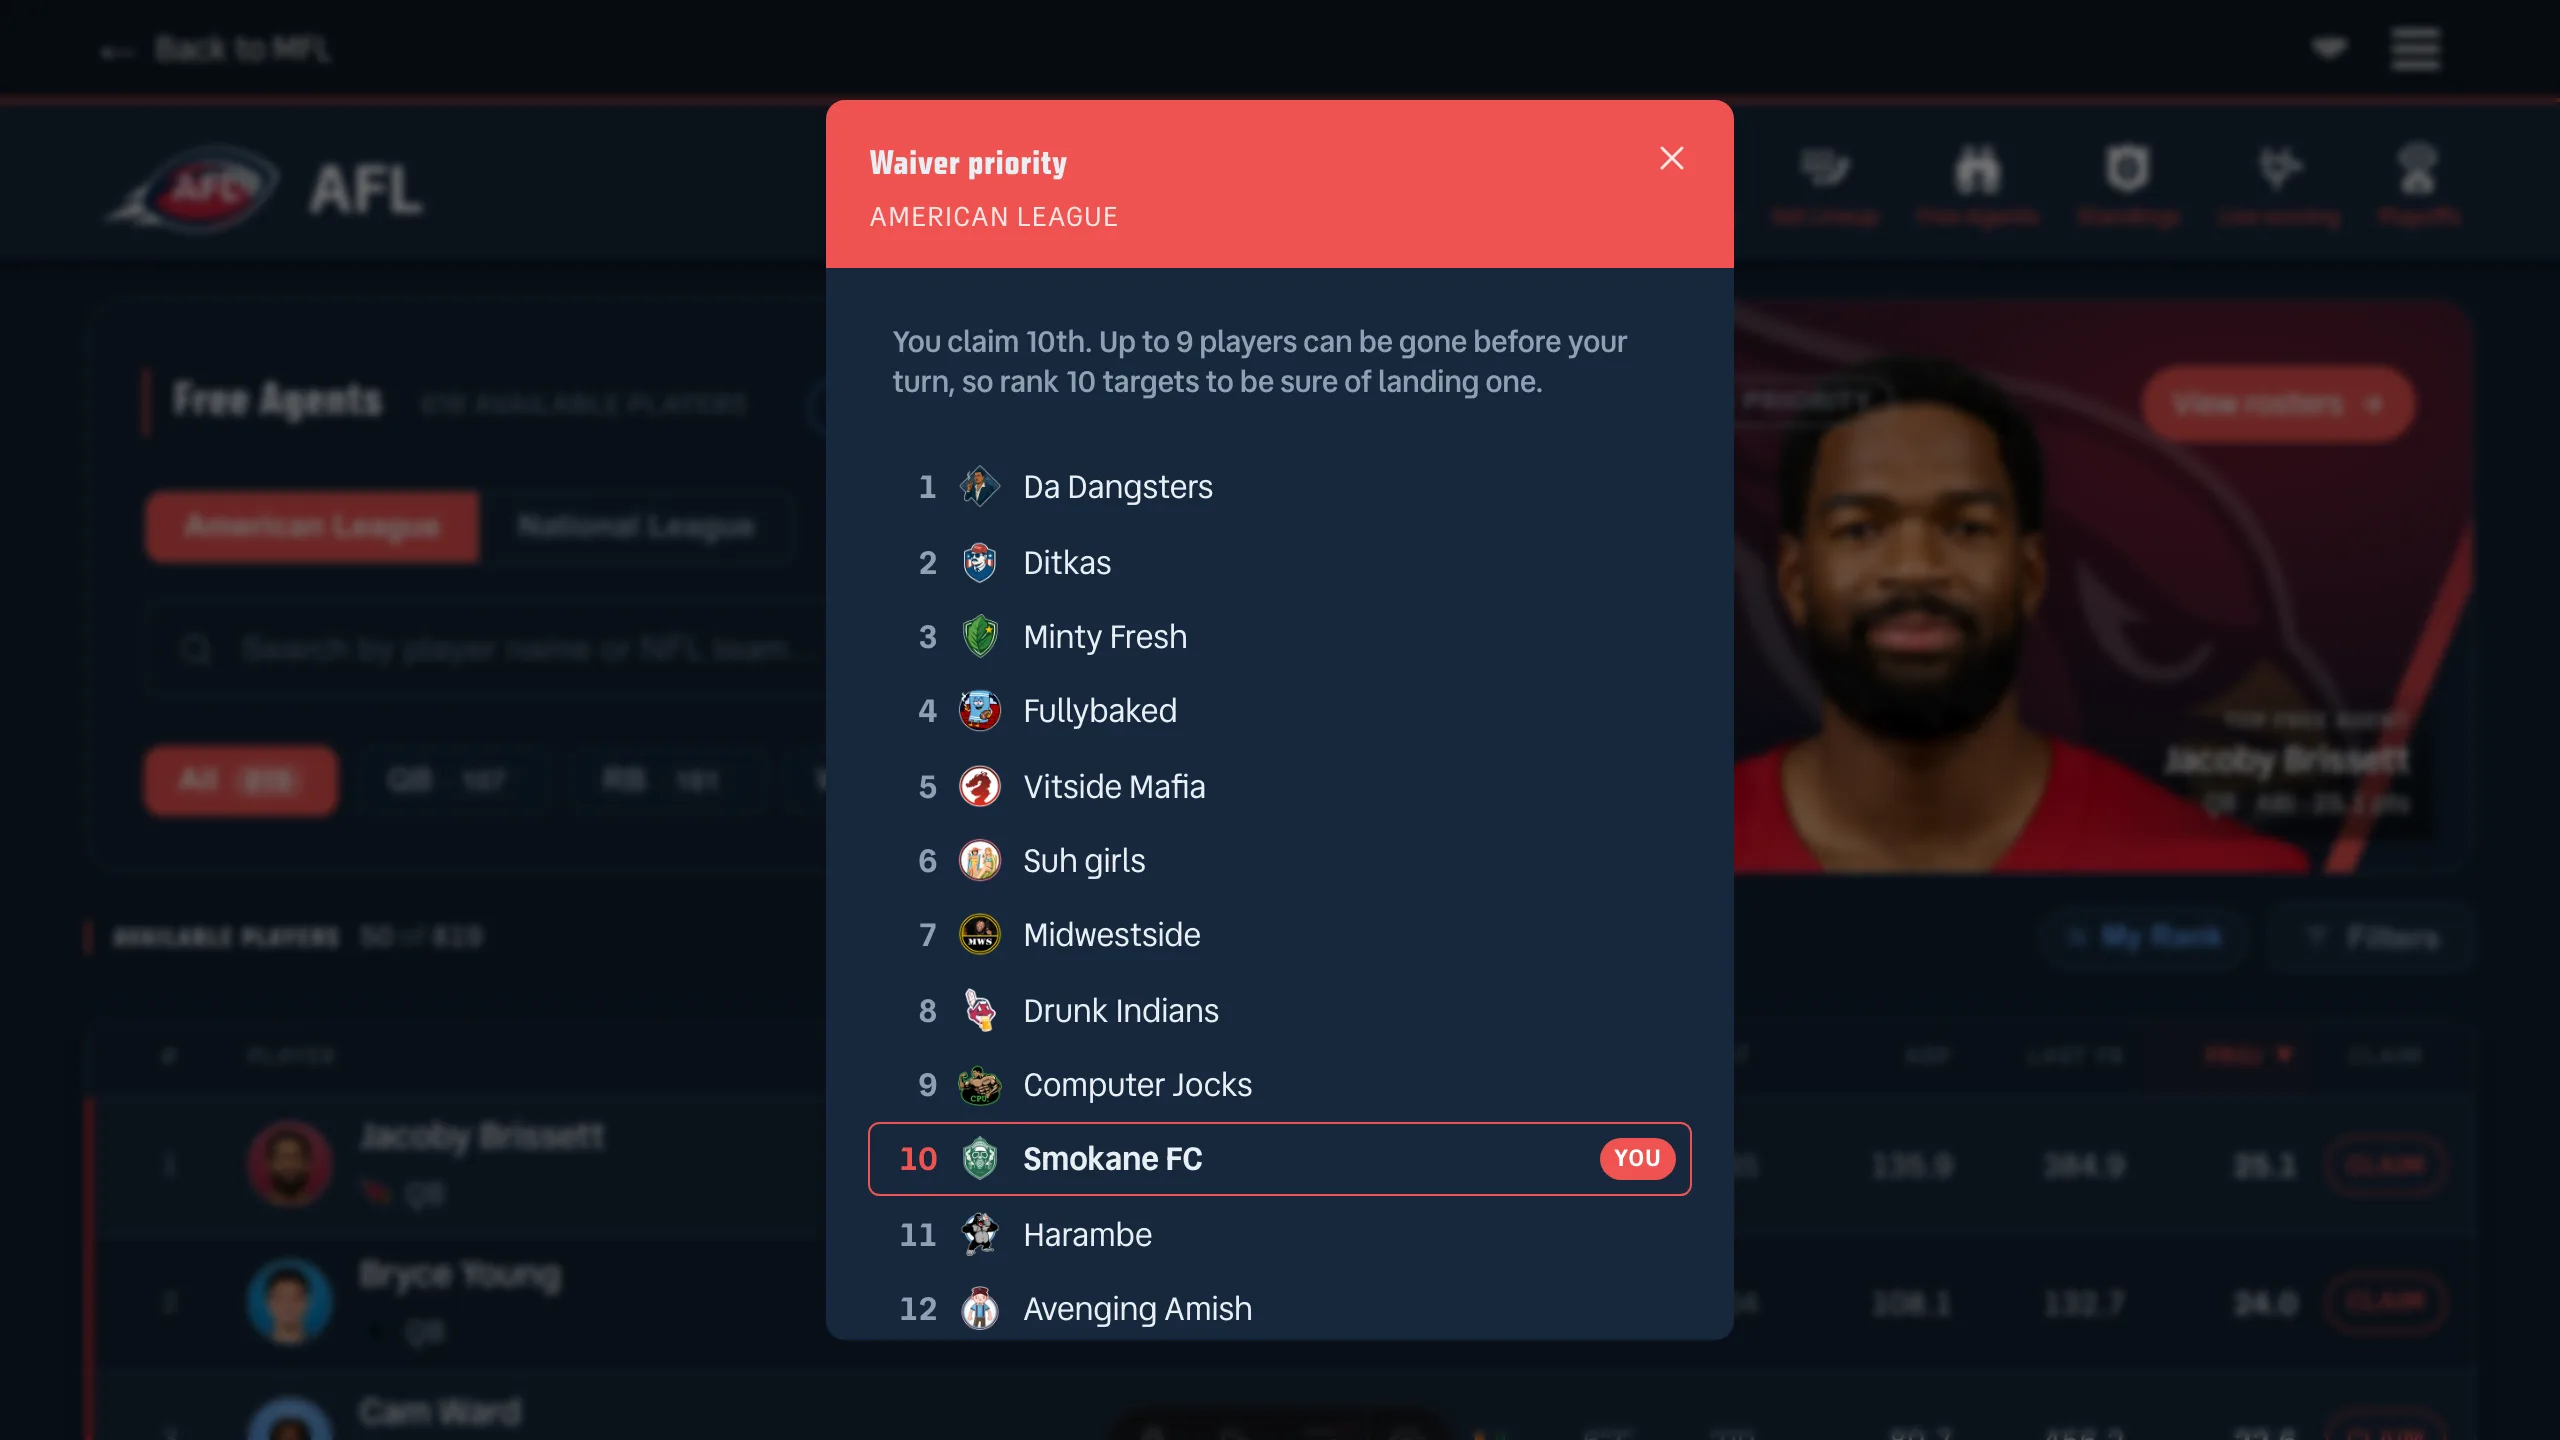
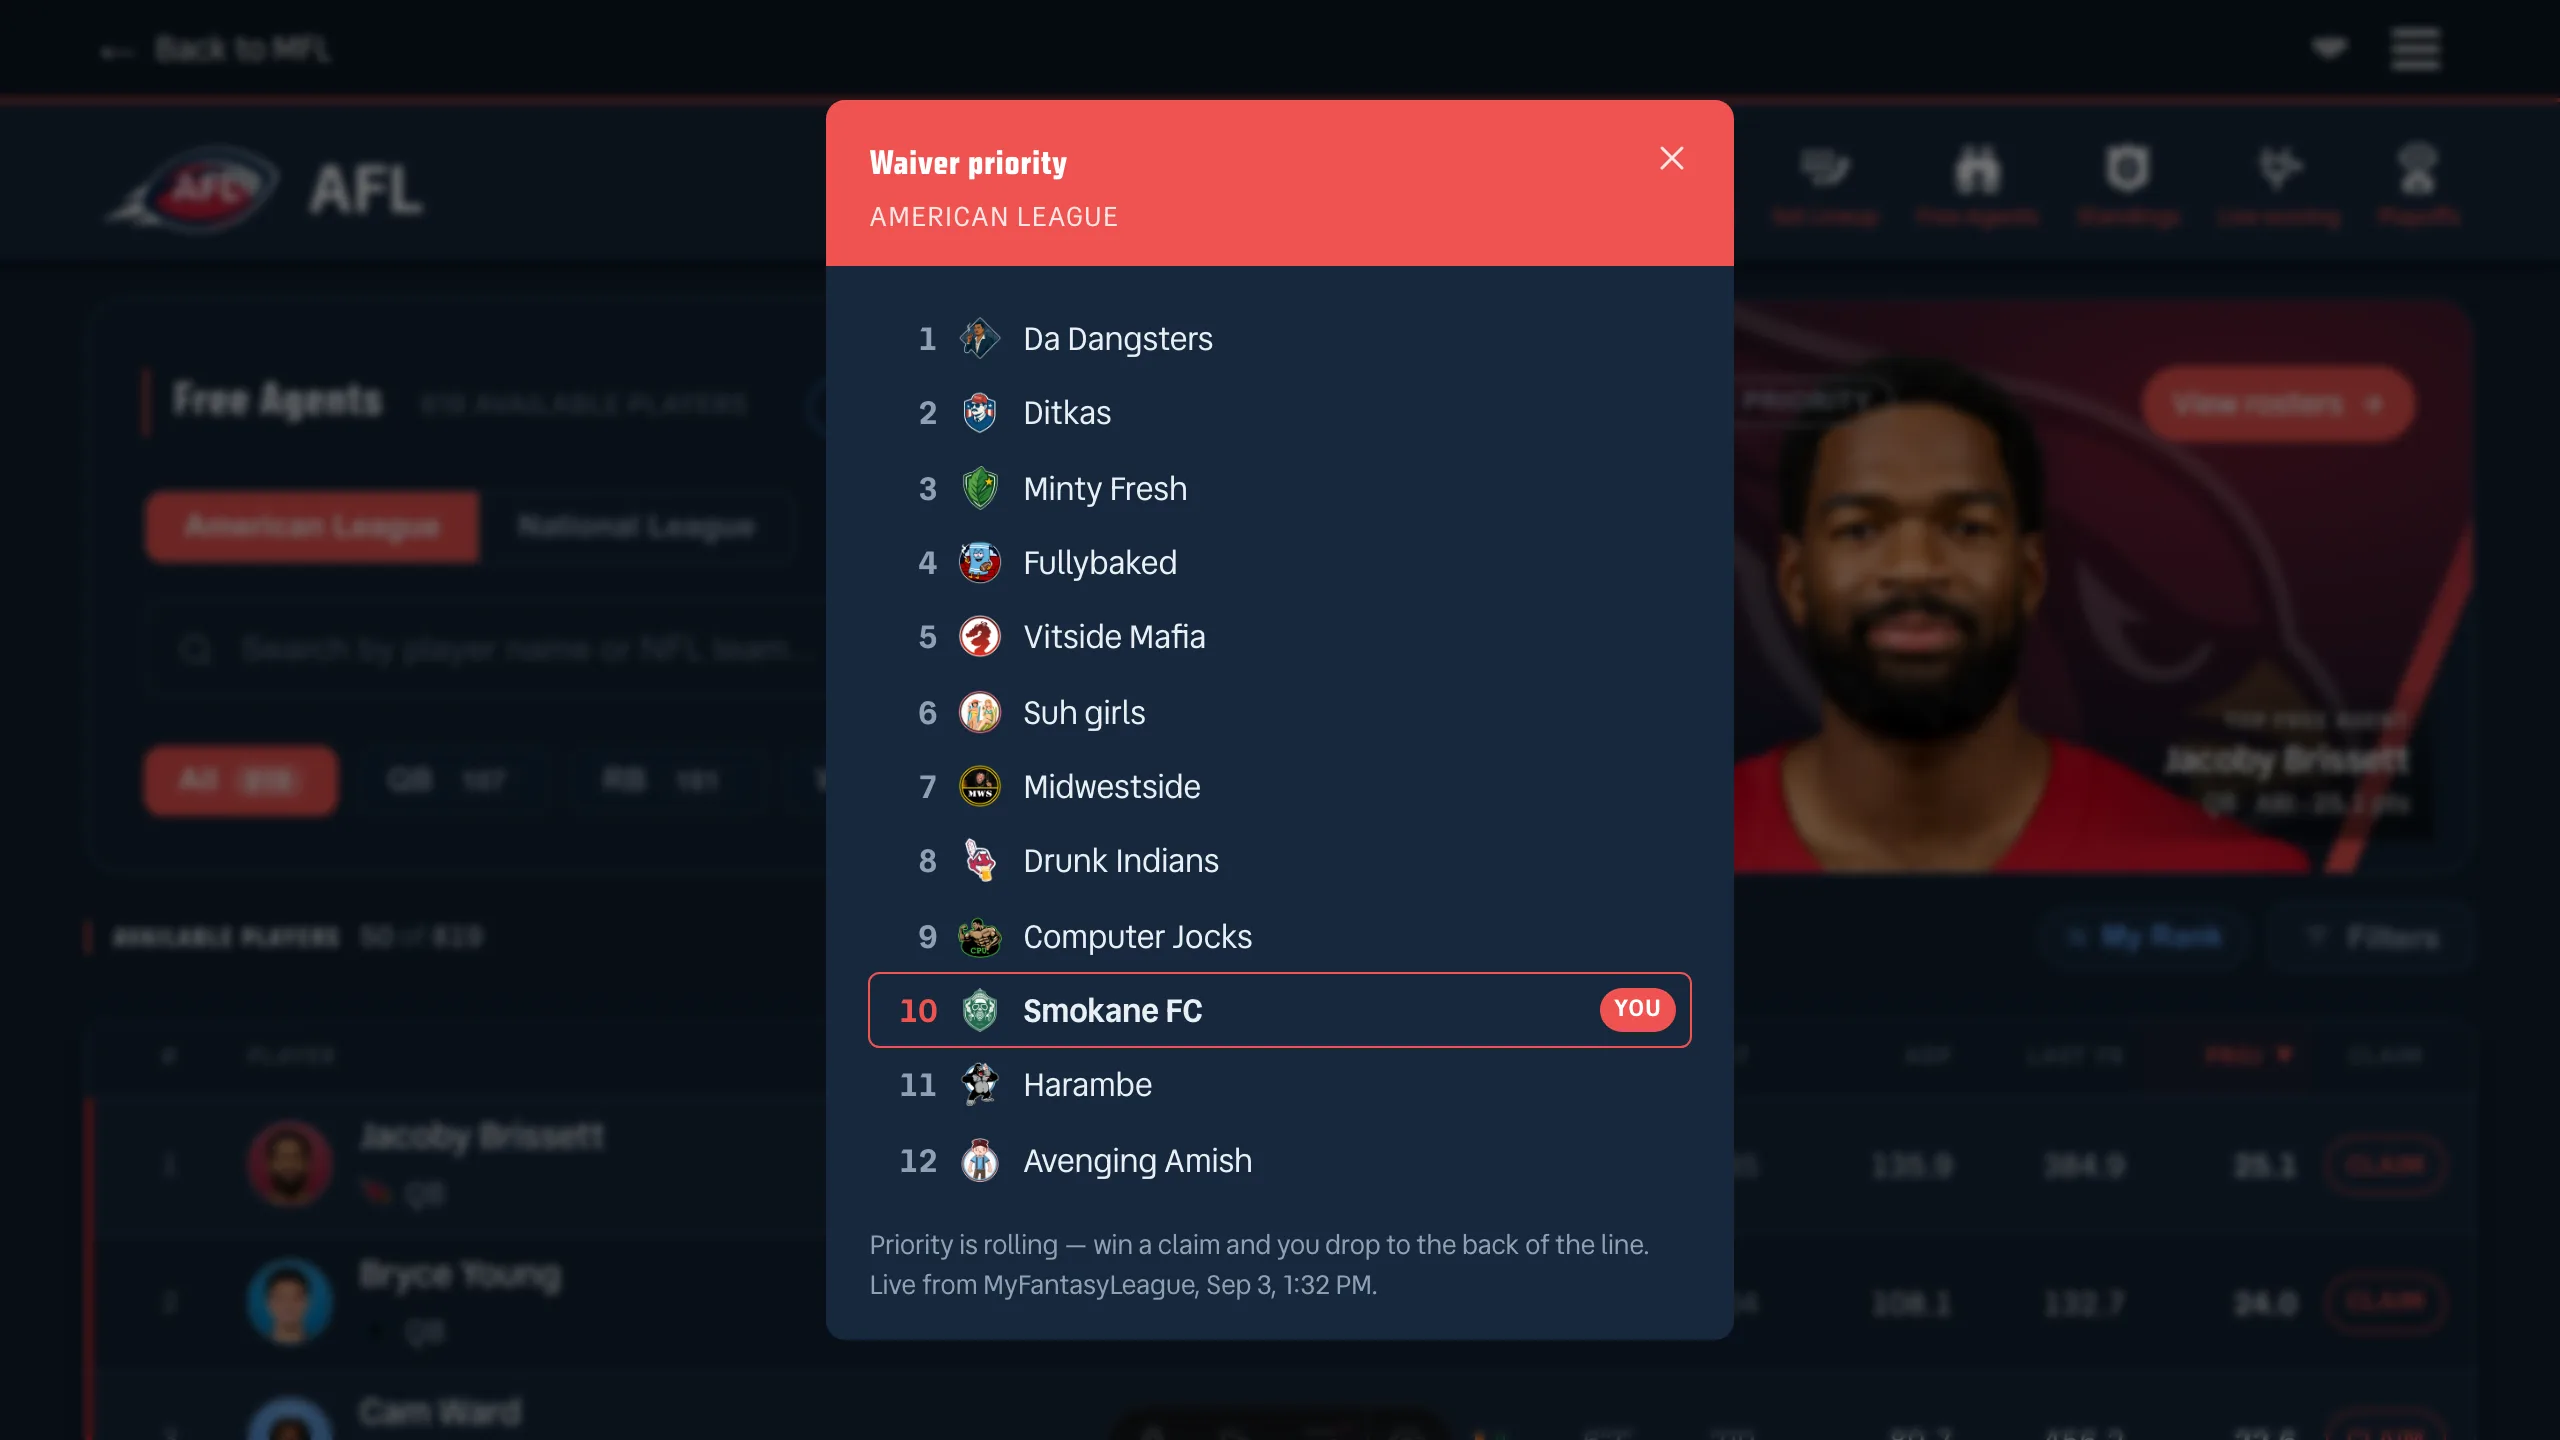
fix(waivers): drop the priority modal's instruction line, white title, bottom padding
Three fixes from a look at the shipped modal:

- The sentence above the list ("You claim 10th. Up to 9 players…") is gone.
  The owner's own row — numbered, outlined, badged YOU — already says it, and
  restating it in prose was furniture. The status line stays for loading and
  failure, the two states the list cannot narrate for itself, and is no longer
  sticky now that nothing scrolls under it.
- The "Waiver priority" heading rendered near-black on the accent band while
  the subtitle beside it was white. The global h1-h6 colour rule out-specifies
  the band's inherited `color`, so the title now sets #fff explicitly.
- The last team sat flush against the modal's bottom edge, reading as a list
  that got cut off rather than one that ended. More bottom padding on the body
  plus a small margin under the list.

What's New screenshots re-shot; its copy no longer describes the removed line.

diff --git a/src/styles/waiver-priority-modal.css b/src/styles/waiver-priority-modal.css
@@ -66,7 +66,16 @@
   color: #fff;
 }
 .wpm-head__text { flex: 1; min-width: 0; }
-.wpm-title { margin: 0; font-size: 1rem; font-weight: 800; letter-spacing: -0.01em; }
+/* Explicit #fff, not inherited from .wpm-head: the global heading rules set a
+   colour on h1-h6 and out-specify a parent's `color`, so the title rendered
+   near-black on the accent band while the subtitle beside it was white. */
+.wpm-title {
+  margin: 0;
+  font-size: 1rem;
+  font-weight: 800;
+  letter-spacing: -0.01em;
+  color: #fff;
+}
 .wpm-sub {
   margin: 0.15rem 0 0;
   font-size: 0.72rem;
@@ -86,18 +95,17 @@
 .wpm-close:hover { color: #fff; }
 
 .wpm-body {
-  padding: 0.9rem 1.15rem 1.15rem;
+  /* The generous bottom value is deliberate: the last team in the order sat
+     flush against the modal edge, which reads as a list that got cut off
+     rather than one that ended. */
+  padding: 0.9rem 1.15rem 1.4rem;
   overflow-y: auto;
   overscroll-behavior: contain;
 }
 
+/* Loading and failure only — it is never on screen at the same time as the
+   list, so it does not need to be sticky. */
 .wpm-status {
-  /* Pinned while the order scrolls under it: "you claim 10th" is the answer
-     the owner opened this for, and it must not scroll away while they read
-     who is ahead of them. */
-  position: sticky;
-  top: 0;
-  z-index: 1;
   margin: 0 0 0.75rem;
   padding: 0.5rem 0.6rem;
   border-radius: var(--radius-sm, 0.375rem);
@@ -109,7 +117,7 @@
 }
 .wpm-status--error { color: var(--color-error, #b91c1c); }
 
-.wpm-list { list-style: none; margin: 0; padding: 0; }
+.wpm-list { list-style: none; margin: 0 0 0.35rem; padding: 0; }
 .wpm-row {
   display: flex;
   align-items: center;

diff --git a/docs/claude/insights/features/waiver-claims.md b/docs/claude/insights/features/waiver-claims.md
@@ -289,6 +289,23 @@ signed-out visitor, so closing the dialog on success would leave them staring at
 the same page with no button. `LoginForm`'s `redirectUrl` carries the current
 path, which makes it a reload rather than a bounce to a league home.
 
+## 2026-09-03 - A Global Heading Rule Out-Specifies A Parent's `color`
+
+**Context:** the priority modal's `<h3>` rendered near-black on the accent
+band, while the `<p>` subtitle two lines below it — same parent, same inherited
+`color: #fff` — was correctly white.
+
+**Insight:** inheritance is the weakest source of a value. The parent's `color`
+only reaches a child that has no rule of its own, and the global stylesheet sets
+a colour on `h1`-`h6`; that rule beats inheritance outright, no specificity
+contest required. The paragraph had no such rule, so it inherited and looked
+fine, which is what made the header look like a one-off glitch rather than a
+category of bug.
+
+**Rule:** any heading placed on a coloured band needs its colour set
+explicitly. Do not rely on the band's own `color` to carry it, and do not
+conclude the band is fine because the non-heading text on it is.
+
 ## 2026-09-03 - `--content-text` Does Not Exist
 
 **Context:** the priority modal's body text rendered near-black on dark navy.
